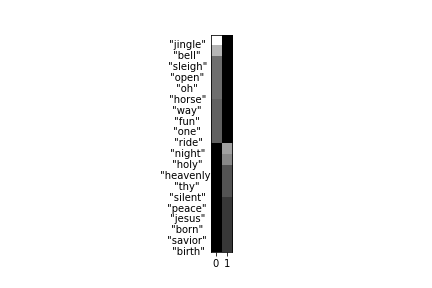
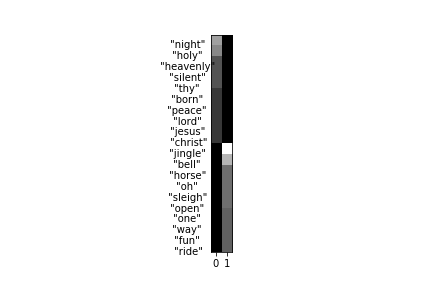
no message

Changed region(s): [[0.3611, 0.125, 0.5417, 0.9062]]

diff --git a/xmax_song/LDA_Christmas_Songs.py b/xmax_song/LDA_Christmas_Songs.py
@@ -1,0 +1,214 @@
+#!/usr/bin/env python3
+# -*- coding: utf-8 -*-
+"""
+Created on Sun May  6 19:10:18 2018
+
+@author: verani
+"""
+# wordcloud 
+import matplotlib.pyplot as plt
+import re
+from nltk.corpus import stopwords
+import os
+
+from os import path
+from PIL import Image
+from wordcloud import WordCloud, STOPWORDS
+import numpy as np
+
+d = os.getcwd()
+
+raw_text= open(path.join(d, 'XMAS SONG.txt'), encoding = "utf8").read()
+raw_text= raw_text.replace("\n"," ")
+
+cleantextprep = str(raw_text)
+
+
+# keep only letters, numbers and whitespace
+expression = "[^a-zA-Z0-9 ]" 
+cleantextCAP = re.sub(expression, '', cleantextprep) # apply regex
+cleantext = cleantextCAP.lower() # lower case 
+
+
+
+text_file = open("Output_total.txt", "w")
+text_file.write(str(cleantext))
+text_file.close()
+
+
+root_path = os.getcwd()
+
+# Read the whole text.
+with open(path.join(root_path, 'Output_total.txt'), 'r', encoding='utf-8', errors='ignore') as outout_file:
+    text = outout_file.readlines()
+
+# Mask
+xmas_tree_pic = np.array(Image.open(path.join(root_path, "xmas_tree2.png")))
+
+# Optional additional stopwords
+stopwords = set(STOPWORDS)
+stopwords.add("song")
+
+# Construct Word Cloud
+# no backgroundcolor and mode = 'RGBA' create transparency
+wc = WordCloud(max_words=100, mask=xmas_tree_pic,
+               stopwords=stopwords, mode='RGBA', background_color=None)
+
+# Pass Text
+wc.generate(text[0])
+
+# store to file
+wc.to_file(path.join(root_path, "wordcloud_xmas_tree.png"))
+
+
+
+
+
+# LDA
+
+
+import os
+import re
+import nltk
+nltk.download('punkt')
+from os import path
+from nltk.stem import WordNetLemmatizer 
+from nltk.stem.porter import PorterStemmer
+from nltk.corpus import stopwords
+
+d = os.getcwd()
+
+
+
+
+text_pre = open(path.join(d, 'XMAS SONG.txt'), encoding = "utf8").read()
+#text= text_pre.replace("\n"," ")
+#text_file = open("XMAS SONG.txt", "w")
+#text_file.write(str(text))
+#text_file.close()
+
+doc_l = str.split(text_pre, sep = 'SONG')
+#doc_l.pop()[0]
+
+doc_complete = doc_l
+
+doc_out = []
+for l in doc_l:
+    
+    cleantextprep = str(l)
+    
+    # Regex cleaning
+    expression = "[^a-zA-Z ]" # keep only letters, numbers and whitespace
+    cleantextCAP = re.sub(expression, '', cleantextprep) # apply regex
+    cleantext = cleantextCAP.lower() # lower case 
+    bound = ''.join(cleantext)
+    doc_out.append(bound)
+
+doc_complete = doc_out
+
+from nltk.corpus import stopwords 
+from nltk.stem.wordnet import WordNetLemmatizer
+import string
+
+stop = set(stopwords.words('english'))
+stop.add('SONG')
+
+exclude = set(string.punctuation) 
+lemma = WordNetLemmatizer()
+import nltk
+nltk.download('wordnet')
+def clean(doc):
+    stop_free = " ".join([i for i in doc.lower().split() if i not in stop])
+    punc_free = ''.join(ch for ch in stop_free if ch not in exclude)
+    normalized = " ".join(lemma.lemmatize(word) for word in punc_free.split())
+    return normalized
+
+
+doc_clean = [clean(doc).split() for doc in doc_complete]    
+
+
+# Importing Gensim
+import gensim
+from gensim import corpora
+
+# Creating the term dictionary of our courpus, where every unique term is assigned an index.
+dictionary = corpora.Dictionary(doc_clean)
+
+# Converting list of documents (corpus) into Document Term Matrix using dictionary prepared above.
+doc_term_matrix = [dictionary.doc2bow(doc) for doc in doc_clean]
+
+
+
+# Creating the object for LDA model using gensim library
+Lda = gensim.models.ldamodel.LdaModel
+
+# Running and Trainign LDA model on the document term matrix.
+ldamodel = Lda(doc_term_matrix, num_topics=2, id2word = dictionary, passes=20)
+
+#print(ldamodel.print_topics(num_topics=3, num_words=5))
+K=2
+topicWordProbMat=ldamodel.print_topics(K)
+
+
+
+import pandas as pd
+import numpy as np
+
+columns = ['1','2']
+df = pd.DataFrame(columns = columns)
+pd.set_option('display.width', 1000)
+
+# 20 need to modify to match the length of vocabulary 
+zz = np.zeros(shape=(20,K))
+
+last_number=0
+DC={}
+
+for x in range (20):
+  data = pd.DataFrame({columns[0]:"",
+                     columns[1]:"",
+#                     columns[2]:"",
+#                     columns[3]:"",
+#                     columns[4]:"",                                                                                                    
+                    },index=[0])
+  df=df.append(data,ignore_index=True)  
+
+for line in topicWordProbMat:
+    
+    tp, w = line
+    probs=w.split("+")
+    y=0
+    for pr in probs:
+               
+        a=pr.split("*")
+        df.iloc[y,tp] = a[1]
+       
+        if a[1] in DC:
+           zz[DC[a[1]]][tp]=a[0]
+        else:
+           zz[last_number][tp]=a[0]
+           DC[a[1]]=last_number
+           last_number=last_number+1
+        y=y+1
+
+print (df)
+print (zz)
+
+
+import matplotlib.pyplot as plt
+
+zz=np.resize(zz,(len(DC.keys()),zz.shape[1]))
+
+for val, key in enumerate(DC.keys()):
+        plt.text(-2.5, val + 0.5, key,
+                 horizontalalignment='center',
+                 verticalalignment='center'
+                 )
+
+#plt.imshow(zz, cmap='hot', interpolation='nearest')
+plt.imshow(zz, cmap=plt.cm.gray, interpolation='nearest')
+#plt.show()
+plt.yticks([])
+# plt.title("heatmap xmas song")
+plt.savefig("heatmap xmas song.png", transparent = True)
+

diff --git a/xmax_song/wordcloud_xmas_song.py b/xmax_song/wordcloud_xmas_song.py
@@ -10,14 +10,9 @@ import matplotlib.pyplot as plt
 import re
 from nltk.corpus import stopwords
 import os
-import pysentiment as ps
-import nltk
-from nltk.stem import WordNetLemmatizer 
-from nltk.stem.porter import PorterStemmer
-from nltk.corpus import stopwords
+
 from os import path
 from PIL import Image
-import matplotlib.pyplot as plt
 from wordcloud import WordCloud, STOPWORDS
 import numpy as np
 
